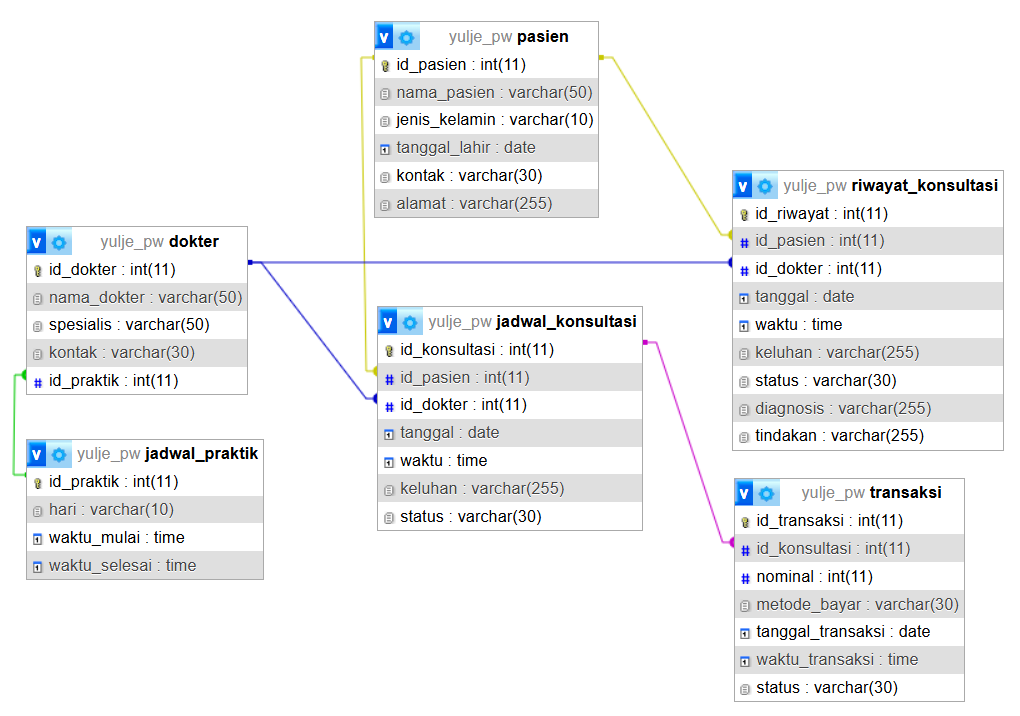
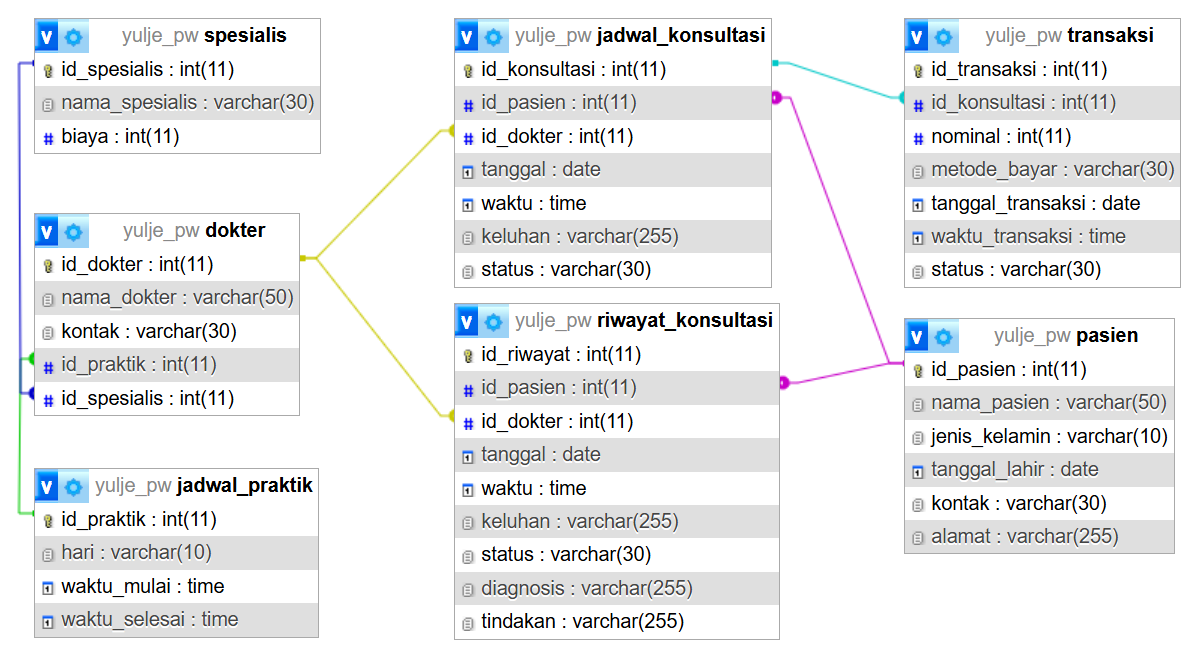
FINISHED: Landing Pages & Another Structure Rework
Changed README.md, rekonstruksi struktur, mengubah ERD, Data kosong

diff --git a/index.js b/index.js
@@ -8,26 +8,25 @@ const port = 3000;
 
 app.use(express.json());
 app.use(express.urlencoded({ extended: true }));
-app.use(express.static('public'));
+app.use(express.static('public'));  // Untuk pemanggilan asset tanpa root folder
+app.set("view engine", "ejs");
 
 /*
     Note:
-    Yang tidak memiliki label 'Static', menggunakan file ejs karena konten dinamis.
-
-    Static menggunakan fungsi res.sendFile(), 
-    Dinamis menggunakan res.render();
+    Menggunakan file ejs karena konten dinamis dan telah support modularity.
+    Dinamis menggunakan res.render() dengan source direktori 'views/'
     
         - Erik
 */
 
-// Landing Page (Static)
+// Landing Page
 app.get('/', (req, res) => {
-    res.sendFile(path.join(__dirname, "public", "index.html"));
+    res.render("index.ejs");
 });
 
-// Form Pengajuan Konsultasi (Static) -> /proses
+// Form Pengajuan Konsultasi -> /proses
 app.get('/pengajuan', (req, res) => {
-    res.sendFile(path.join(__dirname, "public", "pengajuan.html"));
+    res.render("pengajuan.ejs");
 });
 
 // Proses Pengajuan -> /proses/transaksi

diff --git a/README.md b/README.md
@@ -1,6 +1,8 @@
 # "YULJE Medical Center" - CRUD Jadwal Konsultasi Dokter dan Pasien
-_Web App - Tugas Akhir Pemrograman Web_  
+_**Web App - Tugas Akhir Pemrograman Web**_  
 _Disclaimer: Nama dan inspirasi hanya berupa objek fiktif belaka_  
+
+![Yulje - Medical Center](public/schemas/mockup_Landing.png)
 
 **Deskripsi**
 Projek aplikasi ini bertujuan untuk mengaplikasikan *study case* jadwal konsultasi antara dokter dengan pasien. Program menyajikan informasi mengenai penjadwalan yang telah dipesan oleh pasien dan status dari jadwal tersebut, mulai dari tanggal, deskripsi, status, dan lain-lain.
@@ -10,10 +12,13 @@ Projek aplikasi ini bertujuan untuk mengaplikasikan *study case* jadwal konsulta
 - Jika berhasil, mengarah ke pembayaran/transaksi.
 - Jika gagal, kembali ke halaman input konsultasi.
 
+![Form Konsultasi](public/schemas/mockup_FormKonsul.png)
+
 ## Teknologi
-- TailwindCSS
 - HTML5
 - CSS3
+- TailwindCSS
+- Bootstrap 5 Icons
 - NodeJS
 - ExpressJS
 - EJS (Embedded JavaScript)
@@ -34,13 +39,16 @@ Projek aplikasi ini bertujuan untuk mengaplikasikan *study case* jadwal konsulta
 - http://localhost:3000/admin/jadwal/:id
 
 ## Database Tables
+
+![ERD](public/schemas/Entity%20Relationship%20Diagram%20(ERD).png)
+
 - **Jadwal_Konsultasi**
-  - *id_konsultasi* INT/SERIAL AUTO_INCREMENT(P)
+  - *id_konsultasi* INT AUTO_INCREMENT(P)
   - *id_pasien* VARCHAR(50) (F)
   - *id_dokter* VARCHAR(50) (F)
   - *tanggal* DATE
   - *waktu* TIME
-  - *keluhan* TEXT/VARCHAR(255)
+  - *keluhan* VARCHAR(255)
   - *status* VARCHAR(30)
   
 - **Riwayat_Konsultasi**
@@ -49,26 +57,31 @@ Projek aplikasi ini bertujuan untuk mengaplikasikan *study case* jadwal konsulta
   - *id_dokter* VARCHAR(50) (F)
   - *tanggal* DATE
   - *waktu* TIME
-  - *keluhan* TEXT/VARCHAR(255)
+  - *keluhan* VARCHAR(255)
   - *status* VARCHAR(30)
   - *diagnosis* VARCHAR(255)
   - *tindakan* VARCHAR(255)
   
 - **Dokter**
-  - *id_dokter* INT/SERIAL AUTO_INCREMENT(P)
+  - *id_dokter* INT AUTO_INCREMENT(P)
   - *nama_dokter* VARCHAR(50)
   - *spesialis* VARCHAR(50)
   - *kontak* VARCHAR(30)
   - *id_praktik* VARCHAR(100) (F)
   
 - **Jadwal_Praktik**
-  - *id_praktik* INT/SERIAL AUTO_INCREMENT(P)
+  - *id_praktik* INT AUTO_INCREMENT(P)
   - *hari* VARCHAR(10)
   - *waktu_mulai* TIME
   - *waktu_selesai* TIME
   
+- **Spesialis**
+  - *id_spesialis* INT AUTO_INCREMENT(P)
+  - *nama_spesialis* VARCHAR(30)
+  - *biaya* INT
+  
 - **Pasien**
-  - *id_pasien* INT/SERIAL AUTO_INCREMENT(P)
+  - *id_pasien* INT AUTO_INCREMENT(P)
   - *nama_pasien* VARCHAR(50)
   - *jenis_kelamin* VARCHAR(10)
   - *tanggal_lahir* DATE
@@ -76,9 +89,9 @@ Projek aplikasi ini bertujuan untuk mengaplikasikan *study case* jadwal konsulta
   - *alamat* VARCHAR(255)
   
 - **Transaksi**
-  - *id_transaksi* INT/SERIAL AUTO_INCREMENT(P)
-  - *id_konsultasi* INT/SERIAL (F)
-  - *nominal* NUMERIC/INT/DECIMAL
+  - *id_transaksi* INT AUTO_INCREMENT(P)
+  - *id_konsultasi* INT (F)
+  - *nominal* INT
   - *metode_bayar* VARCHAR(30)
   - *tanggal_transaksi* DATE
   - *waktu_transaksi* TIME
@@ -92,13 +105,17 @@ yulje-app/
 │  ├─ css/  
 │  ├─ img/  
 │  ├─ schemas/  
-│  ├─ index.html  
-│  ├─ pengajuan.html  
 ├─ views/  
+│  ├─ modules/  
+│  │  ├─ navbar.ejs  
+│  │  ├─ footer.ejs  
+│  ├─ index.ejs  
+│  ├─ pengajuan.ejs  
 │  ├─ jadwal.ejs  
 │  ├─ proses.ejs  
 │  ├─ jadwal-dokter.ejs  
 │  ├─ admin.ejs  
+├─ .gitignore  
 ├─ db.js  
 ├─ index.js  
 ├─ package-lock.json  
